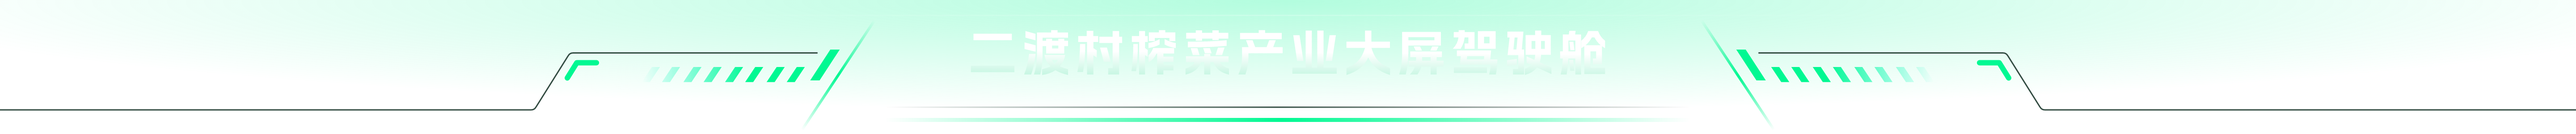
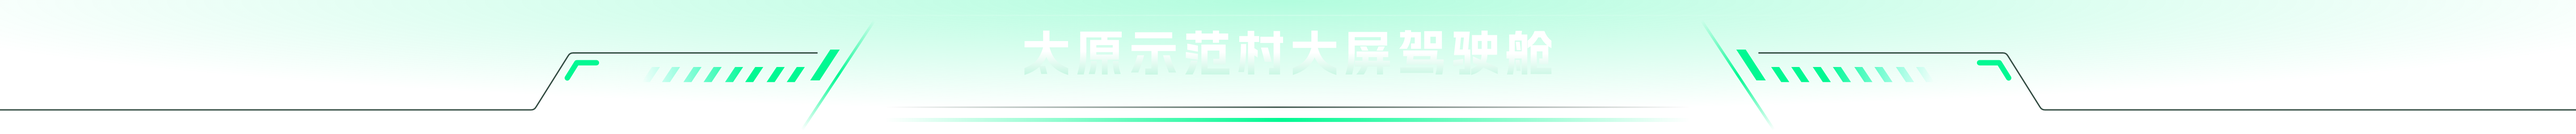
feat：太原示范村大屏调整

Changed region(s): [[0.3749, 0.21, 0.6248, 0.45], [0.4061, 0.54, 0.4686, 0.57]]

diff --git a/src/views/bigscreenTY/agriculture.vue b/src/views/bigscreenTY/agriculture.vue
@@ -15,7 +15,8 @@ import {
   getAllBase,
   getAllPlotByBaseID,
   getProductBrand,
-  getEquipmentMap
+  getEquipmentMap,
+  qianjiangMonitor
 } from './api'
 import BigscreenCalendar from './components/calendar.vue'
 
@@ -83,6 +84,7 @@ const getCropBase = async () => {
   })
   if (!Array.isArray(list)) return;
   cropList.value = list;
+  console.log(cropList.value,'cropListcropList1234')
 }
 getCropBase()
 //品牌信息
@@ -170,6 +172,7 @@ getTopDataList()
 //品种分布
 const initChart = async () => {
   const res = await getBreedCategory()
+  console.log(res,'res123品种分布')
   if (!Array.isArray(res)) return
   const seriesData = res.map(item => ({
     name: item.cropName || '暂无数据',
@@ -390,6 +393,51 @@ const getEquipmentMapData = async () => {
     map.fitBounds(latlngs, { padding: [5, 5] })
   })
 }
+/****************************  气象检测 土壤墒情 ****************************/
+
+const soilList = ref<Array<any>>([])
+const montiorList = ref<Array<any>>([])
+const getQianjiangMonitor = async() => {
+  const soil={
+    '光照':'1',
+    '氮':'2',
+    '钾':'3',
+    '磷':'4',
+    'PH值':'5',
+    '湿度':'6',
+    'EC值':'7',
+    '温度':'8',
+  }
+  const montior={
+    '空气温度':'1',
+    '空气湿度':'2',
+    '降雨量':'3',
+    '雨量':'3',
+    '光照强度':'4',
+    '光照':'4',
+    '风力':'5',
+    '风速':'5',
+    '风向':'6',
+  }
+  let res = await qianjiangMonitor({type:'气象站'})
+  let res2 = await qianjiangMonitor({type:'土壤墒情'})
+  console.log(res,'气象监测')
+  console.log(res2,' 土壤墒情')
+  soilList.value=res2
+  montiorList.value=res
+
+  soilList.value = soilList.value.map((item)=>({
+    ...item,
+    icon:soil[item.monitoringType]
+  }))
+  montiorList.value = montiorList.value.map((item)=>({
+    ...item,
+    icon:montior[item.monitoringType]
+  }))
+  console.log( montiorList.value,' montiorList.value montiorList.value1234')
+}
+getQianjiangMonitor()
+
 </script>
 <template>
   <div class="w-full h-full flex justify-between relative">
@@ -544,41 +592,43 @@ const getEquipmentMapData = async () => {
         </div>
       </div>
     </div>
-    <!-- 种养信息 -->
+    <!-- 气象监测 -->
     <div class="h-full w-460px">  
-      <div class="w-460px h-45px plant-title"></div>
-      <el-scrollbar style="height: 485px;margin-bottom: 15px;">
-        <div class="p-3 box-border grid grid-cols-2 gap-3 text-white">
-          <div
-            class="plant-bg w-full p-3 box-border"
-            v-for="item in cropList"
-            :key="item.id"
-          >
-            <img :src=item.imgId class="w-full h-130px object-contain" />
-            <div class="flex items-start space-x-2 mt-2">
-              <div class="w-5px h-14px bg-#01F892 mt-1 ml-1"></div>
-              <div class="space-y-2 text-#d1d1d1 text-12px">
-                <div class="text-[16px] text-white">{{item.cropName}}</div>
-                <div class="text-[12px]">
-                  <span>所属地块:</span>
-                  <span>{{ item.plotName }}</span>
-                </div>
-                <div class="text-[12px]">
-                  <span>起止时间:</span>
-                  <div class="text-[12px]">
-                    {{ dayjs(item.receiptStartTime).format('YYYY-MM-DD') }}
-                    -
-                    {{ item.receiptEndTime? dayjs(item.receiptEndTime).format('YYYY-MM-DD'):'暂无数据' }}
-                  </div>
-                </div>
+      <!----气象监测----->
+      <div class="w-460px h-45px meteor-title"></div>
+      <el-scrollbar style="height: 200px;">
+        <div class="p-3 box-border color-[#fff] grid grid-cols-3 gap-1 ">
+          <div  
+            class=" w-100%  p-3 box-border flex justify-between "
+            v-for="item in montiorList"
+            :key="item.id">
+              <div :class="`meteor-icon-${item.icon} w-50px h-50px`"></div>
+              <div class="!w-60%">
+                <div  class="flex justify-center">{{ item.monitoringType }}</div>
+                <div class="flex text-1rem mt-10px justify-end">{{item.dataValue}} <div class="text-13px mt-[2px] color-[#929593]">{{ item.unit }}</div></div>
               </div>
-            </div>
+          </div>
+        </div>
+      </el-scrollbar>
+      <!----土壤墒情----->
+      <div class="w-460px h-45px soil-title"></div>
+      <el-scrollbar style="height: 300px;">
+        <div class="p-3 box-border grid color-[#fff] grid-cols-3 gap-3 ">
+          <div  
+            class="w-100% p-3 box-border flex justify-between items-center"
+            v-for="item in soilList"
+            :key="item.id">
+              <div :class="`soil-icon-${item.icon} w-55px h-55px`"></div>
+              <div>
+                <div class="flex justify-center">{{ item.monitoringType }}</div>
+                <div class="flex text-1.5rem justify-end mt-10px">{{item.dataValue}} <div class="text-15px mt-[10px] color-[#929593]">{{ item.unit }}</div></div>
+              </div>
           </div>
         </div>
       </el-scrollbar>
       <!----品牌介绍----->
       <div class="w-460px h-45px brand-title"></div>
-      <el-scrollbar style="height: 360px;">
+      <el-scrollbar style="height: 280px;">
         <div class="p-3 box-border grid grid-cols-1 gap-3 ">
           <div  
             class="plant-bg w-full  p-3 box-border flex justify-center "
@@ -640,7 +690,7 @@ const getEquipmentMapData = async () => {
         </div>
       </div>
     </div>
-    <div class="absolute w-940px left-460px bottom-20px flex justify-center text-white z-20 ">
+    <div class="absolute w-940px left-460px bottom-300px flex justify-center text-white z-20 ">
       <div class="flex justify-center space-x-40px backdrop-blur-sm p-3 px-6 bg-#00000090 rounded-3">
         <div class="flex space-x-2 items-center">
           <div class="w-26px h-30px icon-1"></div>
@@ -664,7 +714,39 @@ const getEquipmentMapData = async () => {
         </div>
       </div>
     </div>
-    <div class="absolute w-940px left-460px h-full z-0" id="bigMapContainer"></div>
+    <div class="absolute w-940px left-460px h-70% z-0" id="bigMapContainer"></div>
+    <div class='absolute w-940px h-28% bottom-0 left-460px'>
+      <div class="w-940px h-45px plant-title"></div>
+      <el-scrollbar style="height: calc(100% - 45px);margin-bottom: 15px;">
+        <div class="p-3 box-border grid grid-cols-2 gap-3 text-white">
+          <div
+            class="plant-bg w-full p-3 box-border"
+            v-for="item in cropList"
+            :key="item.id"
+          >
+            <img :src=item.imgId class="w-full h-130px object-contain" />
+            <div class="flex items-start space-x-2 mt-2">
+              <div class="w-5px h-14px bg-#01F892 mt-1 ml-1"></div>
+              <div class="space-y-2 text-#d1d1d1 text-12px">
+                <div class="text-[16px] text-white">{{item.cropName}}</div>
+                <div class="text-[12px]">
+                  <span>所属地块:</span>
+                  <span>{{ item.plotName }}</span>
+                </div>
+                <div class="text-[12px]">
+                  <span>起止时间:</span>
+                  <div class="text-[12px]">
+                    {{ dayjs(item.receiptStartTime).format('YYYY-MM-DD') }}
+                    -
+                    {{ item.receiptEndTime? dayjs(item.receiptEndTime).format('YYYY-MM-DD'):'暂无数据' }}
+                  </div>
+                </div>
+              </div>
+            </div>
+          </div>
+        </div>
+      </el-scrollbar>
+    </div>
   </div>
 </template>
 <style scoped lang="scss">
@@ -685,6 +767,20 @@ const getEquipmentMapData = async () => {
 @for $i from 1 through 3 {
   .agri-bg-#{$i} {
     background-image: url(./assets/agriBg#{$i}.png);
+    background-size: 100% 100%;
+  }
+}
+
+@for $i from 1 through 6 {
+  .meteor-icon-#{$i} {
+    background-image: url(./assets/meteor-icon-#{$i}.png);
+    background-size: 100% 100%;
+  }
+}
+
+@for $i from 1 through 8 {
+  .soil-icon-#{$i} {
+    background-image: url(./assets/soil-icon-#{$i}.png);
     background-size: 100% 100%;
   }
 }
@@ -725,7 +821,17 @@ const getEquipmentMapData = async () => {
 }
 
 .brand-title {
-  background-image: url(./assets/brandTitle.png);
+  background-image: url(./assets/warnTitle.png);
+  background-size: 100% 100%;
+}
+
+.meteor-title {
+  background-image: url(./assets/meteorTitle.png);
+  background-size: 100% 100%;
+}
+
+.soil-title {
+  background-image: url(./assets/soilTitle.png);
   background-size: 100% 100%;
 }
 

diff --git a/src/views/agriculture/farmplan/index.vue b/src/views/agriculture/farmplan/index.vue
@@ -1145,7 +1145,7 @@ const inputTab = (val:any,index:Number) => {
   }else{
   formData.value = {
       feedType: '',
-      feedName: '',
+      feedName: '', 
       consumeNum: '',
       feedCost: '',
       consumeUnit: ''
@@ -1279,5 +1279,15 @@ const dataChange = (e) =>{
 }
 .nameList-wrapper::-webkit-scrollbar{
   width:0;
+}
+.wrapper{
+  width: 200px;
+  height: 200px;
+  background-size: 100% 100%;
+  background-image: url();
+  background-repeat: no-repeat;
+  background-position: center center ;
+  border: 1px solid red;
+  
 }
 </style>

diff --git a/src/views/bigscreenTY/api.ts b/src/views/bigscreenTY/api.ts
@@ -46,6 +46,11 @@ export const getAllBase = async() =>{
   return request.get({ url:'/agriculture/park-info/getAll' })
 }
 
+// 二渡 大屏智慧农业 获取气象监测 土壤墒情
+export const qianjiangMonitor = async(params) =>{
+  return request.get({ url:'/yyang/equipment-data/qianjiangMonitor', params })
+}
+
 // 二渡 大屏智慧农业 根据基地ID获取地块列表
 export const getAllPlotByBaseID = async(params) =>{
   return request.get({ url:'/agri/land-display/park-list', params })
